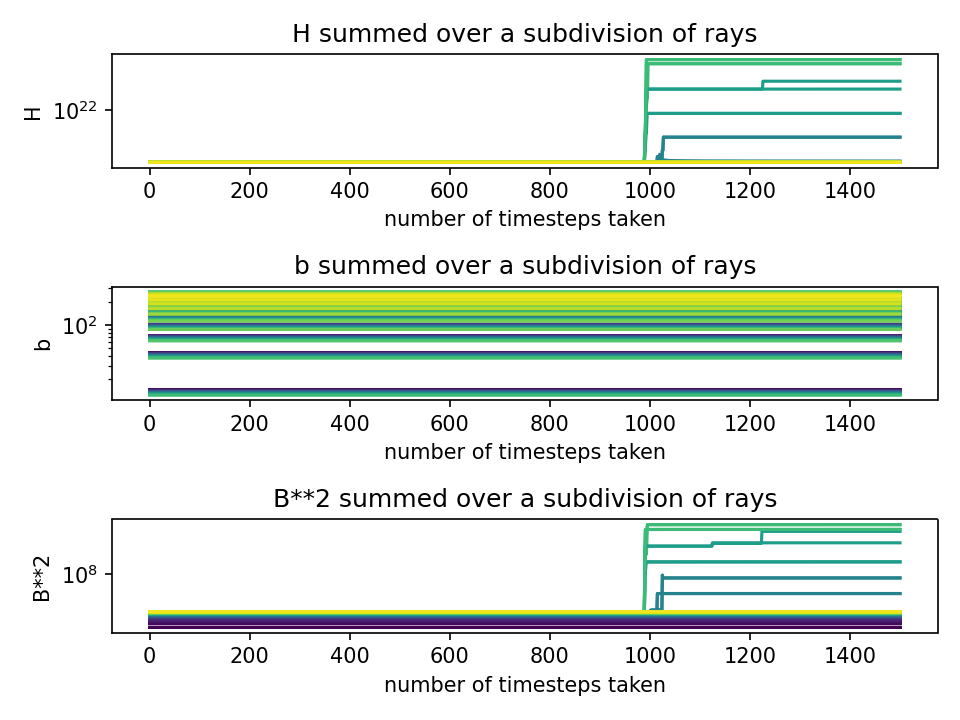
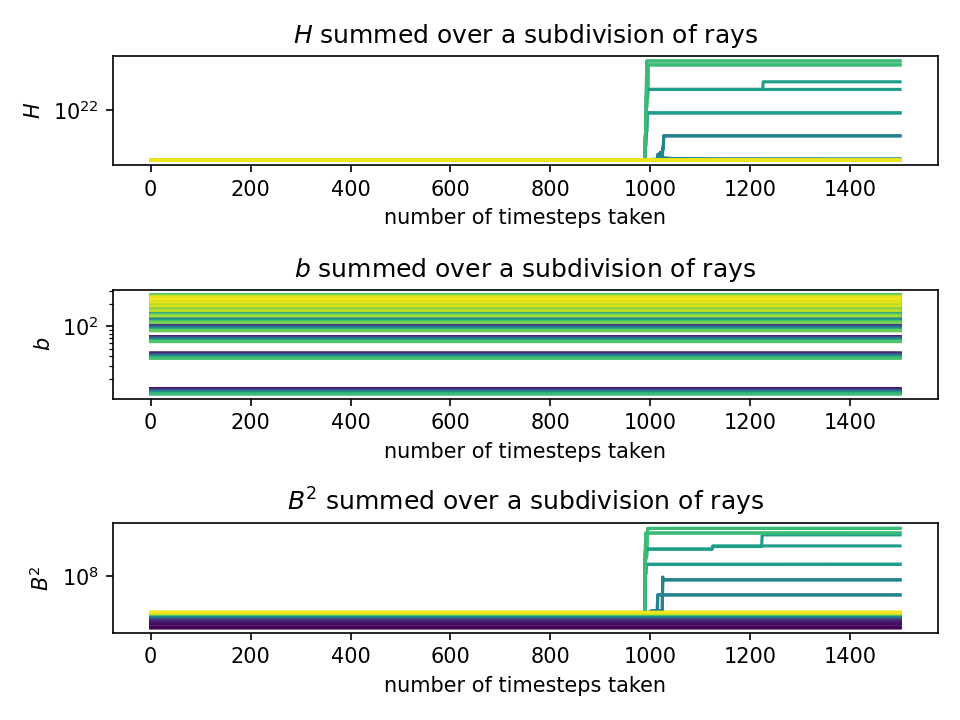
camera location + latex y-axis

diff --git a/WormholeRayTracer.py b/WormholeRayTracer.py
@@ -595,6 +595,7 @@ def gdsc(Motion, Par, name, path, select = None, reduce = False):
     #       select: Give a list of 2D indices to plot only specific geodesiscs
     #       reduce: if true sample geodescics uniformly
     M, rho, a = Par
+    q0 = Motion[0,1,:,0,0].reshape(3,1)
 
     if np.any(select == None):
         Motion = np.transpose(Motion, (1,2,0,3,4))
@@ -631,10 +632,13 @@ def gdsc(Motion, Par, name, path, select = None, reduce = False):
                 ij = i + Nz_s*j
                 cl_i =cl[ind[ij]]
                 ax.plot(X[:,i,j], Y[:,i,j], Z[:,i,j], color = cl_i, alpha=0.5)
+        ax.scatter(X[0,0,0] , Y[0,0,0], Z[0,0,0], label='camera', c = 'r')
         ax.set_title("Geodesics")
+        ax.legend()
     else:
         for k in range(len(select)):
             ax.plot(X[:,k], Y[:,k], Z[:,k], label= str(select[k]))
+        ax.scatter(X[0,0] , Y[0,0], Z[0,0], label='camera', c = 'r')
         ax.set_title("Geodesics corresponding to labeled pixel")
         ax.legend()
     # adds surface
@@ -715,7 +719,7 @@ if __name__ == '__main__':
     #print(picture)
     if Integrator == 1:
         if mode ==  0:
-             plot_CM(CM1, ['H', 'b', 'B**2'], "Pictures/CM DNeg Sympl"+str(Par)+" "+str(initial_q)+".png", path)
+             plot_CM(CM1, ['$H$', '$b$', '$B^{2}$'], "Pictures/CM DNeg Sympl"+str(Par)+" "+str(initial_q)+".png", path)
         #plot_CM(CM2, ['H', 'b', 'B**2'])
 
         #start = time.time()
